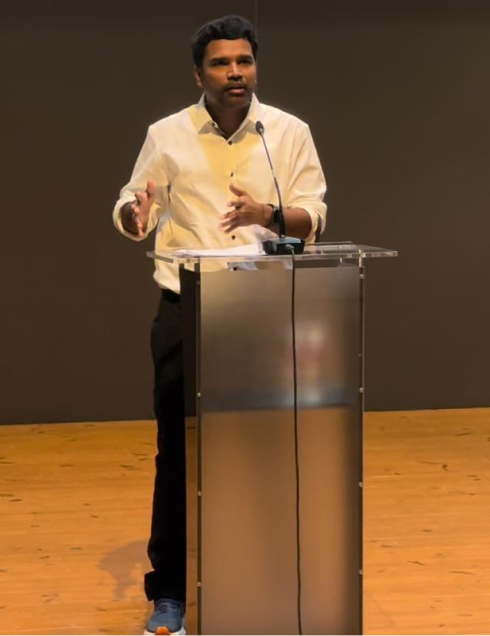
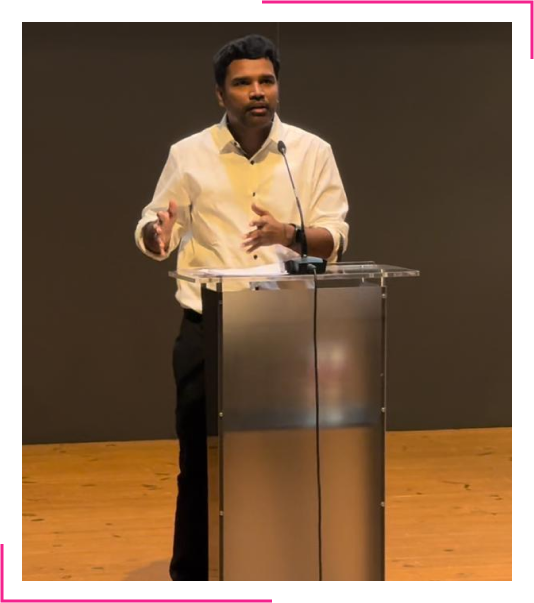
Details page completed

diff --git a/public/css/Upcoming-Detail.css b/public/css/Upcoming-Detail.css
@@ -2,6 +2,7 @@
 @import url('https://fonts.googleapis.com/css2?family=Poppins:wght@200;300;400;600&display=swap');
 @import url('https://fonts.googleapis.com/css2?family=Montserrat:ital,wght@0,100..900;1,100..900&family=Plus+Jakarta+Sans:ital,wght@0,200..800;1,200..800&family=Poppins:wght@200;300;400;600&display=swap');
 @import url('https://fonts.googleapis.com/css2?family=Jaro:opsz@6..72&family=Josefin+Sans:ital,wght@0,100..700;1,100..700&family=Manrope:wght@200..800&family=Montserrat:ital,wght@0,100..900;1,100..900&family=Plus+Jakarta+Sans:ital,wght@0,200..800;1,200..800&family=Poppins:wght@200;300;400;600&family=Roboto:ital,wght@0,100;0,300;0,400;0,500;0,700;0,900;1,100;1,300;1,400;1,500;1,700;1,900&family=Rubik:ital,wght@0,300..900;1,300..900&display=swap');
+@import url("https://fonts.googleapis.com/css2?family=Inter:wght@100..900&family=Pacifico&display=swap");
 @import url('./Header.css');
 @import url('./Footer.css');
 
@@ -44,23 +45,29 @@
     padding: 0rem 4rem;
 }
 
-.hero_headline{
+.hero_headline {
     font-family: Montserrat;
     font-size: 48px;
     font-weight: 700;
     line-height: 58.51px;
     text-align: left;
-    color: #F4238D;
-    background: #FFFFFF;
+    color: #f4238d;
+    background: #ffffff;
     padding: 10px;
     margin-top: -12px;
-    margin-left: -12px;
+    margin-right: -12px;
 }
 
-.border_style{
-    border-bottom: 3px solid #F4238D;
-    border-right: 3px solid #F4238D;
-    padding-right: 12px;
+.hero_headline_span {
+    font-family: "Pacifico", cursive;
+    font-weight: 400;
+    font-style: normal;
+}
+
+.border_style {
+    border-bottom: 3px solid #f4238d;
+    border-left: 3px solid #f4238d;
+    padding-left: 12px;
     padding-bottom: 12px;
 }
 
@@ -117,6 +124,7 @@
     flex-direction: row;
     gap: 5px;
     align-items: center;
+    display: none;
 }
 
 .event_date{
@@ -130,6 +138,7 @@
     flex-direction: row;
     gap: 5px;
     align-items: center;
+    display: none;
 }
 
 .upcoming_details{
@@ -226,6 +235,14 @@ line-height: 25.2px;
 text-align: left;
 color: #F4238D;
 
+}
+
+.rahulimg{
+    display: inline-block;
+}
+
+.mobrahulimg{
+    display: none;
 }
 
 .conference_content{
@@ -597,6 +614,9 @@ color: #F4238D;
     background-color: #5975F7;
     border-radius: 50%;
     z-index: 4;
+    display: flex;
+    align-items: center;
+    justify-content: center;
 }
 
 .timeline_2::before{
@@ -610,6 +630,9 @@ color: #F4238D;
     background-color: #5975F7;
     border-radius: 50%;
     z-index: 4;
+    display: flex;
+    align-items: center;
+    justify-content: center;
 }
 
 .timeline_3::before{
@@ -623,6 +646,9 @@ color: #F4238D;
     background-color: #5975F7;
     border-radius: 50%;
     z-index: 4;
+    display: flex;
+    align-items: center;
+    justify-content: center;
 }
 
 .timeline_4::before{
@@ -636,6 +662,9 @@ color: #F4238D;
     background-color: #5975F7;
     border-radius: 50%;
     z-index: 4;
+    display: flex;
+    align-items: center;
+    justify-content: center;
 }
 
 .timeline_5::before{
@@ -649,6 +678,9 @@ color: #F4238D;
     background-color: #5975F7;
     border-radius: 50%;
     z-index: 4;
+    display: flex;
+    align-items: center;
+    justify-content: center;
 }
 
 .timeline_6::before{
@@ -662,6 +694,9 @@ color: #F4238D;
     background-color: #5975F7;
     border-radius: 50%;
     z-index: 4;
+    display: flex;
+    align-items: center;
+    justify-content: center;
 }
 
 .timeline_7::before{
@@ -675,6 +710,9 @@ color: #F4238D;
     background-color: #5975F7;
     border-radius: 50%;
     z-index: 4;
+    display: flex;
+    align-items: center;
+    justify-content: center;
 }
 
 .timeline_8::before{
@@ -688,6 +726,9 @@ color: #F4238D;
     background-color: #5975F7;
     border-radius: 50%;
     z-index: 4;
+    display: flex;
+    align-items: center;
+    justify-content: center;
 }
 
 .timeline_9::before{
@@ -701,6 +742,9 @@ color: #F4238D;
     background-color: #5975F7;
     border-radius: 50%;
     z-index: 4;
+    display: flex;
+    align-items: center;
+    justify-content: center;
 }
 
 .schedule_heading{
@@ -721,6 +765,7 @@ color: #F4238D;
     line-height: 22.68px;
     text-align: left;
     color: #717380;
+    width: 90%;
 }
 
 .schedule_day{
@@ -1188,6 +1233,9 @@ color: #F4238D;
         text-underline-position: from-font;
         text-decoration-skip-ink: none;
         color: #c8c7d3;
+        display: flex;
+        align-items: center;
+        gap: 10px;
     }
 
     .hero_summary {
@@ -1198,7 +1246,7 @@ color: #F4238D;
         text-align: left;
         text-underline-position: from-font;
         text-decoration-skip-ink: none;
-        width: 100%;
+        width: 80%;
         color: #c8c7d3;
     }
 
@@ -1216,7 +1264,7 @@ color: #F4238D;
 
     .about_conference_wrapper{
         width: 100%;
-        padding: 2rem;
+        padding: 1rem;
         background-image: none;
     }
 
@@ -1233,10 +1281,18 @@ color: #F4238D;
     .conference_images{
         width: 100%;
         background-image: none;
+        padding: 0;
+        display: flex;
+        align-items: center;
+        justify-content: center;
     }
 
-    .conference_images > img {
-        width: 360px;
+    .mobrahulimg{
+        display: block;
+    }
+
+    .rahulimg{
+        display: none;
     }
 
     .register_btn{
@@ -1317,7 +1373,8 @@ color: #F4238D;
         text-align: center;
         text-underline-position: from-font;
         text-decoration-skip-ink: none;
-        color: #717380;        
+        color: #717380;   
+        width: 80%;     
     }
 
     .timeline_div{
@@ -1331,7 +1388,7 @@ color: #F4238D;
 
     .timeline_wrapper{
         gap: 2rem;
-        padding: 0rem 2rem;
+        padding: 0rem 1.2rem;
     }
 
     .schedule_titles{
@@ -1339,12 +1396,12 @@ color: #F4238D;
     }
 
     .timeline_wrapper::after{
-        left: 45%;
+        left: 42%;
         height: 92%;
     }
 
     .timeline_1::before,.timeline_2::before,.timeline_3::before,.timeline_4::before,.timeline_5::before,.timeline_6::before,.timeline_7::before,.timeline_8::before,.timeline_9::before{
-        left: 42.8%;
+        left: 39.9%;
     }
 
     /* Client Reviews */

diff --git a/resources/views/upcoming-event.blade.php b/resources/views/upcoming-event.blade.php
@@ -16,7 +16,7 @@
         </div> -->
         <div class="hero_first_div">
             <div class="border_style">
-                <p class="hero_headline" style="margin-bottom: 0!important;">TestFest India!</p>
+                <p class="hero_headline" style="margin-bottom: 0!important;">QASummit <span class="hero_headline_span">Bengaluru</span></p>
             </div>
             <p class="hero_heading">Welcome to India’s Premier Software Testing and QA Conference</p>
             <p class="event_location"><img src="{{ asset("images/Homepage/Location.png") }}" alt=""><span>Bengaluru, Karnataka</span></p>
@@ -72,7 +72,8 @@
                     <img src="{{ asset("images/Homepage/Mask group (2).png");}}" alt="">
                     <img src="{{ asset("images/Homepage/Mask group (3).png");}}" alt="">
                 </div> -->
-                <img src="{{ asset("images/Detailspage/rahulimg.png");}}" alt="">
+                <img src="{{ asset("images/Detailspage/rahulimg.png");}}" alt="" class="rahulimg">
+                <img src="{{ asset("images/Detailspage/mobrahulimg.png");}}" alt="" class="mobrahulimg">
             </div>
             <div class="images_description">
                 <p class="about_conference_heading" style="margin-bottom:0;">About the Conference</p>
